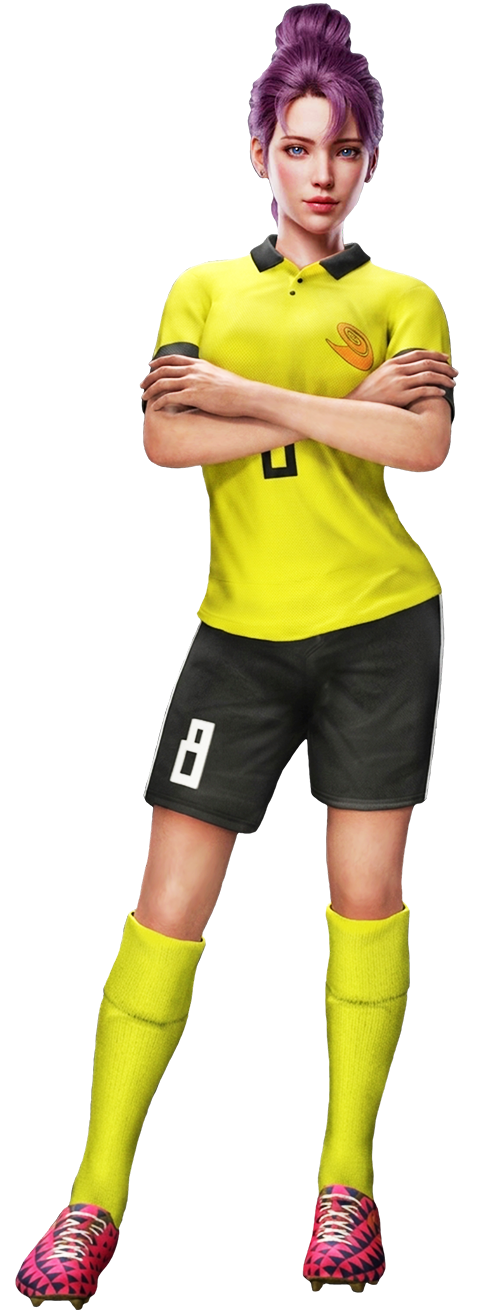
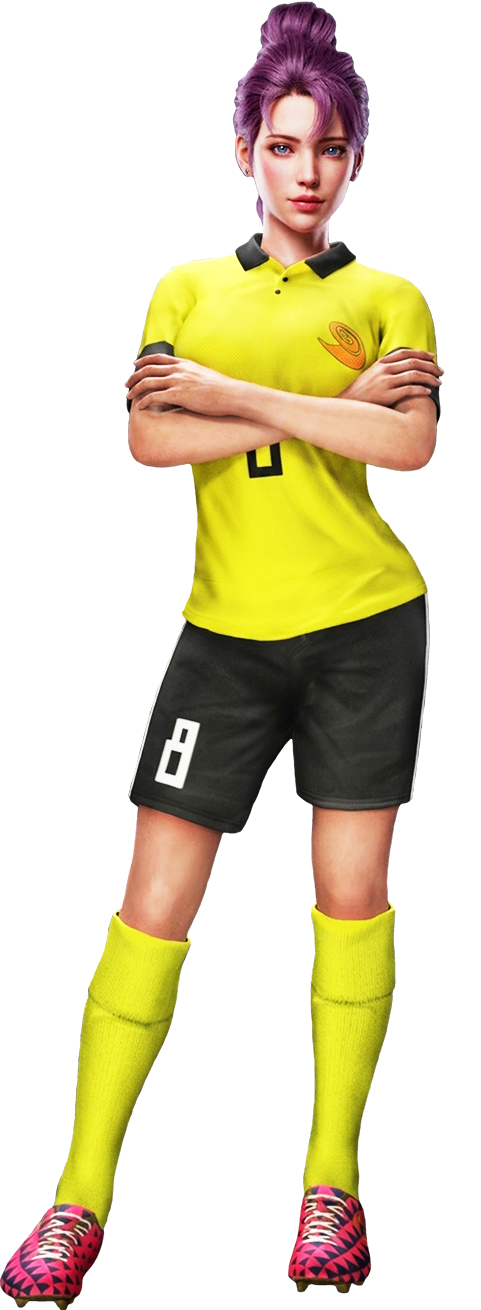
Update character images and adjust top layout offset

Changed region(s): [[0.0, 0.0, 0.9667, 1.0]]

diff --git a/css/style.css b/css/style.css
@@ -424,7 +424,7 @@ header {
 
 .hero-character img {
   position: absolute;
-  top: 200px;
+  top: 150px;
   right: -50px;
   height: 130%;
   width: auto;